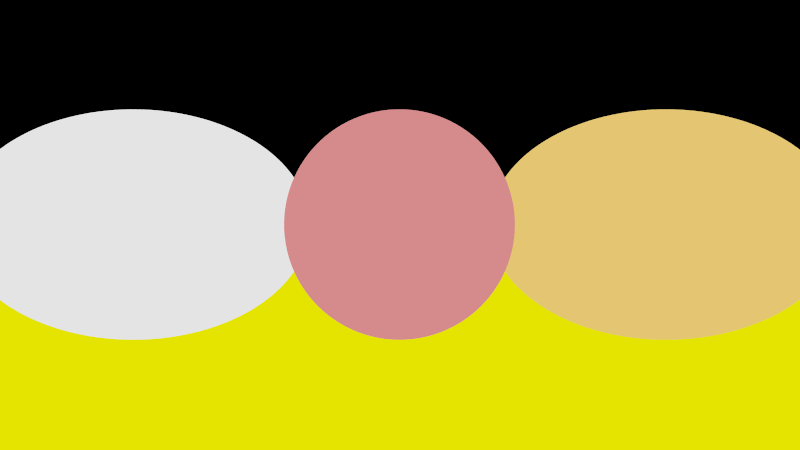
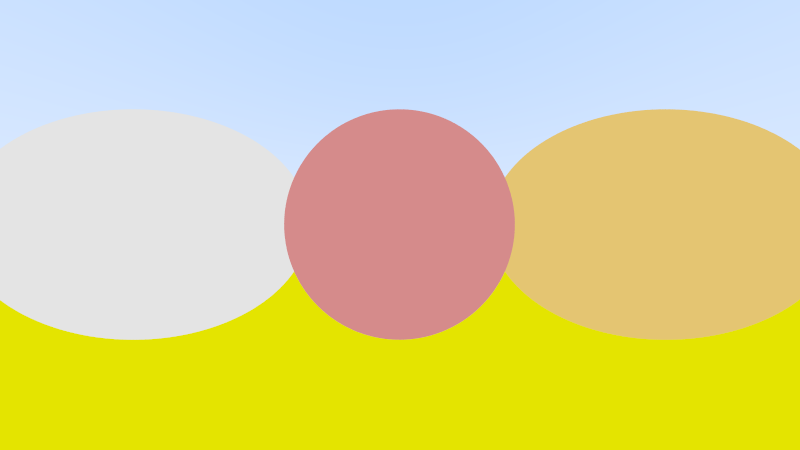
Background for all

Changed region(s): [[0.0, 0.0, 1.0, 0.4044]]

diff --git a/src/ray_marcher.rs b/src/ray_marcher.rs
@@ -31,14 +31,14 @@ impl PixelRenderer for RayMarcher {
                 .min_by(|hit1, hit2| hit1.1.partial_cmp(&hit2.1).unwrap());
             if let Some((obj, t)) = hit {
                 if t >= MAX_T {
-                    return Color::BLACK;
+                    return scene.background.color(&ray);
                 }
                 if t <= MIN_T {
                     return obj.material.albedo;
                 }
                 ray.origin = ray.at(t);
             } else {
-                return Color::BLACK;
+                return scene.background.color(&ray);
             }
         }
     }

diff --git a/src/scene.rs b/src/scene.rs
@@ -25,6 +25,13 @@ pub struct Background {
     pub bottom: Color,
 }
 
+impl Background {
+    pub fn color(&self, ray: &Ray) -> Color {
+        let t = 0.5 * (ray.direction.y + 1.0);
+        self.bottom.lerp(&self.top, t)
+    }
+}
+
 #[derive(Deserialize)]
 pub struct Camera {
     pub eye: Vector3, 

diff --git a/src/ray_tracer.rs b/src/ray_tracer.rs
@@ -34,9 +34,7 @@ impl RayTracer {
                 return Color::BLACK;
             }
         }
-        let unit_direction = ray.direction;
-        let t = 0.5 * (unit_direction.y + 1.0);
-        scene.background.bottom.lerp(&scene.background.top, t)
+        scene.background.color(ray)
     }
 }
 
